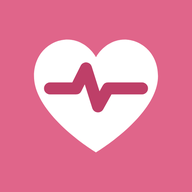
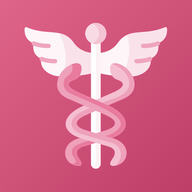
Add files via upload

diff --git a/index.html b/index.html
@@ -1305,7 +1305,7 @@ footer.foot {
 <header class="nav" id="nav">
   <div class="wrap nav-inner">
     <a href="#top" class="brand">
-      <span class="mono" aria-hidden="true"><svg viewBox="0 0 48 48"><g transform="translate(0 0.6)"><path d="M24 37.5C24 37.5 8.5 28.2 8.5 18.4C8.5 12.8 12.6 9.3 16.9 9.3C19.8 9.3 22.5 11.1 24 13.7C25.5 11.1 28.2 9.3 31.1 9.3C35.4 9.3 39.5 12.8 39.5 18.4C39.5 28.2 24 37.5 24 37.5Z" fill="#fff"/><path d="M12.5 21.5H19L21.5 16.5L24.5 26L27 21.5H35.5" fill="none" stroke="#BE3F68" stroke-width="2.4" stroke-linecap="round" stroke-linejoin="round"/></g></svg></span>
[1 lines of base64/hex data omitted]
       Pei-Iun Hsieh <span class="zh">謝佩芸</span>
     </a>
     <div class="nav-right">